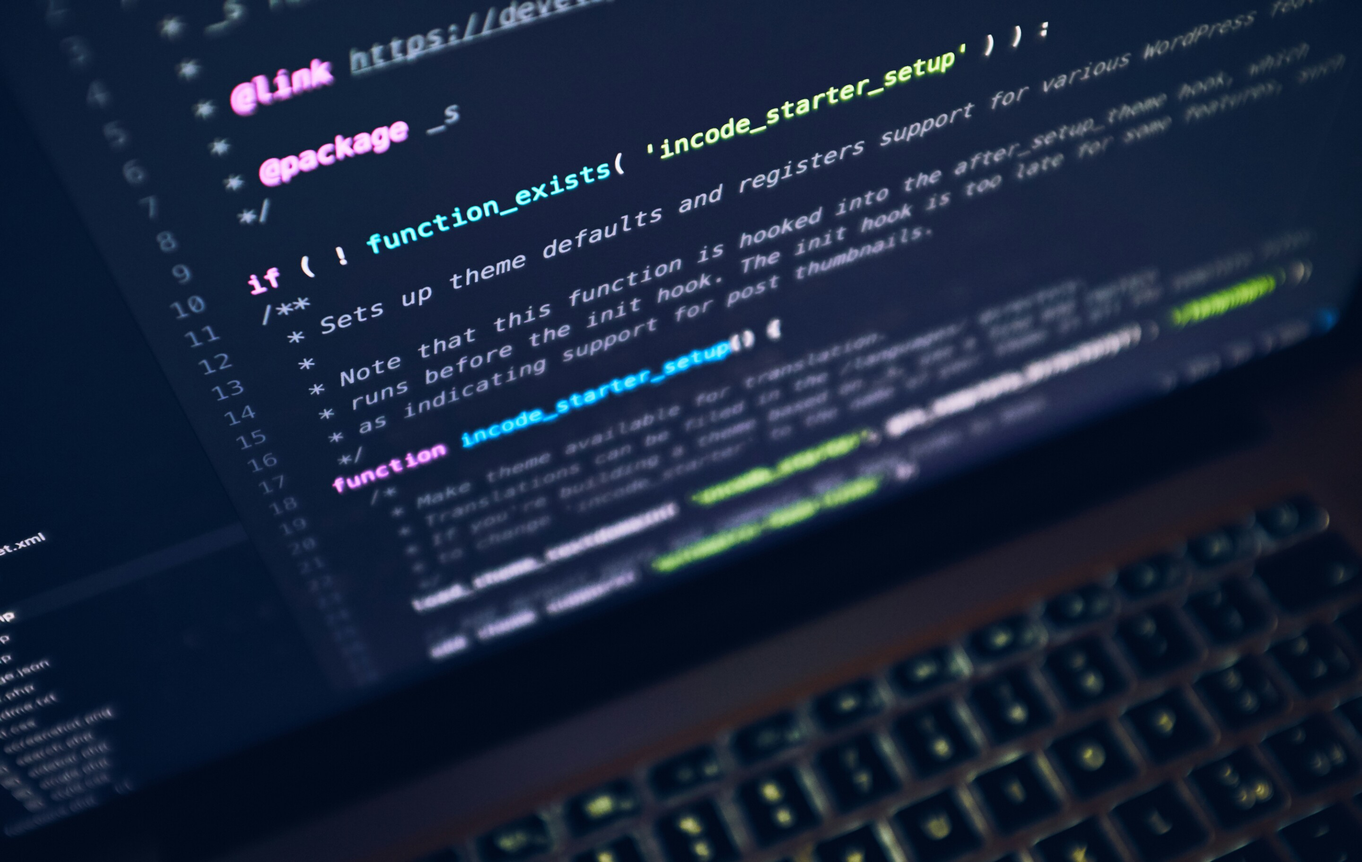
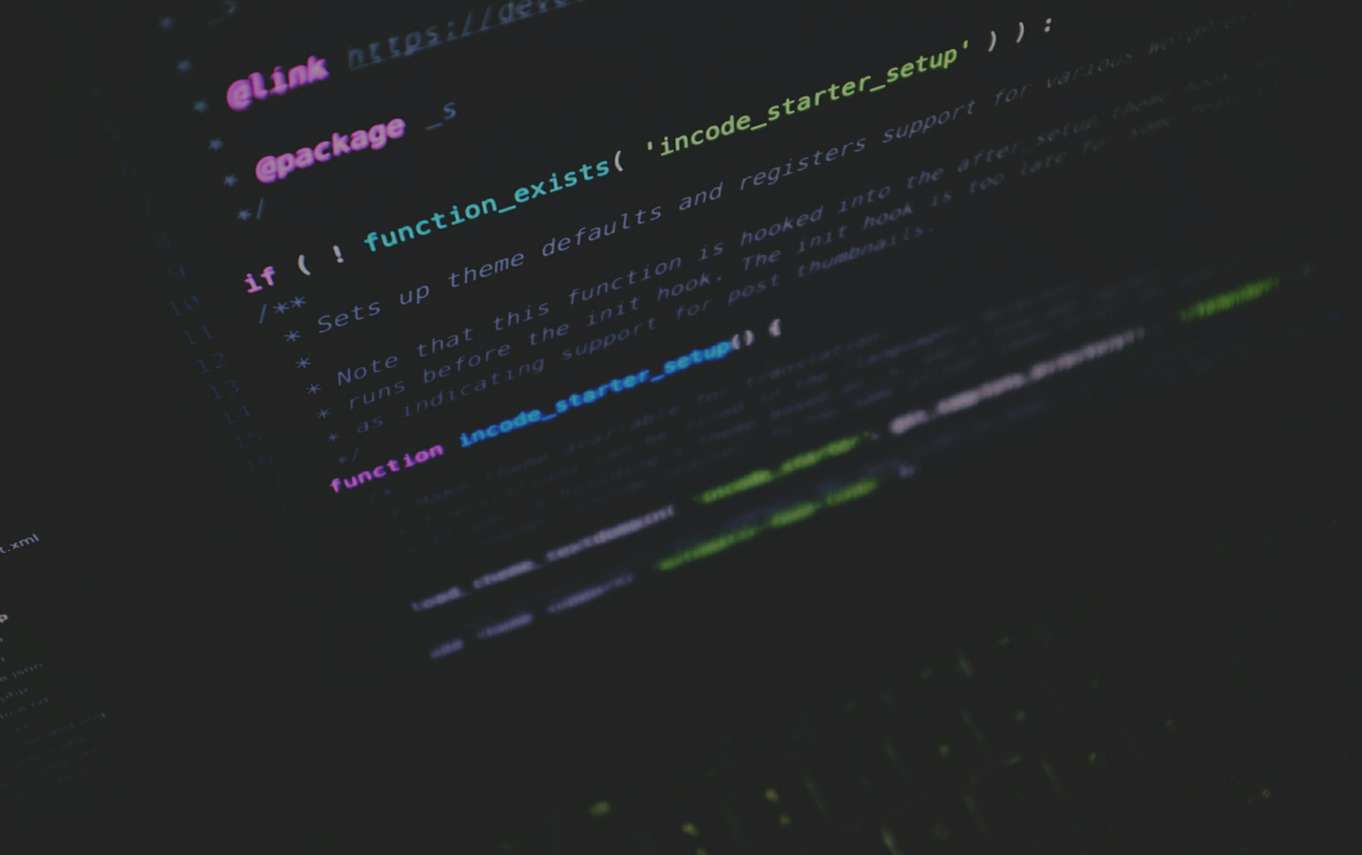
fix home background

diff --git a/assets/css/style.css b/assets/css/style.css
@@ -309,7 +309,7 @@ a {
   min-height: 100vh;
 }
 
-.home.container::after {
+/* .home.container::after { CRUSHING PORTO-MODAL
   content: '';
   position: absolute;
   display: block;
@@ -318,7 +318,7 @@ a {
   right: 0;
   bottom: 0;
   background-color: hsl(0, 0%, 0%, 0.8);
-}
+} */
 
 @keyframes ani01 {
   0% {
@@ -951,8 +951,7 @@ html.active-modal {
 }
 
 .porto-modal.active-modal {
-  /* visibility: visible; */
-  display: flex;
+  visibility: visible;
 }
 
 .porto-modal-btn {
@@ -999,14 +998,14 @@ html.active-modal {
   position: fixed;
   width: 100%;
   background-color: rgba(14, 14, 14, 0.9);
-  display: none;
+  display: flex;
   justify-content: center;
   align-items: center;
   top: 0;
   bottom: 0;
   left: 0;
   right: 0;
-  /* visibility: hidden; */
+  visibility: hidden;
   z-index: var(--z-modal);
   backdrop-filter: blur(4px);
   -webkit-backdrop-filter: blur(4px);
